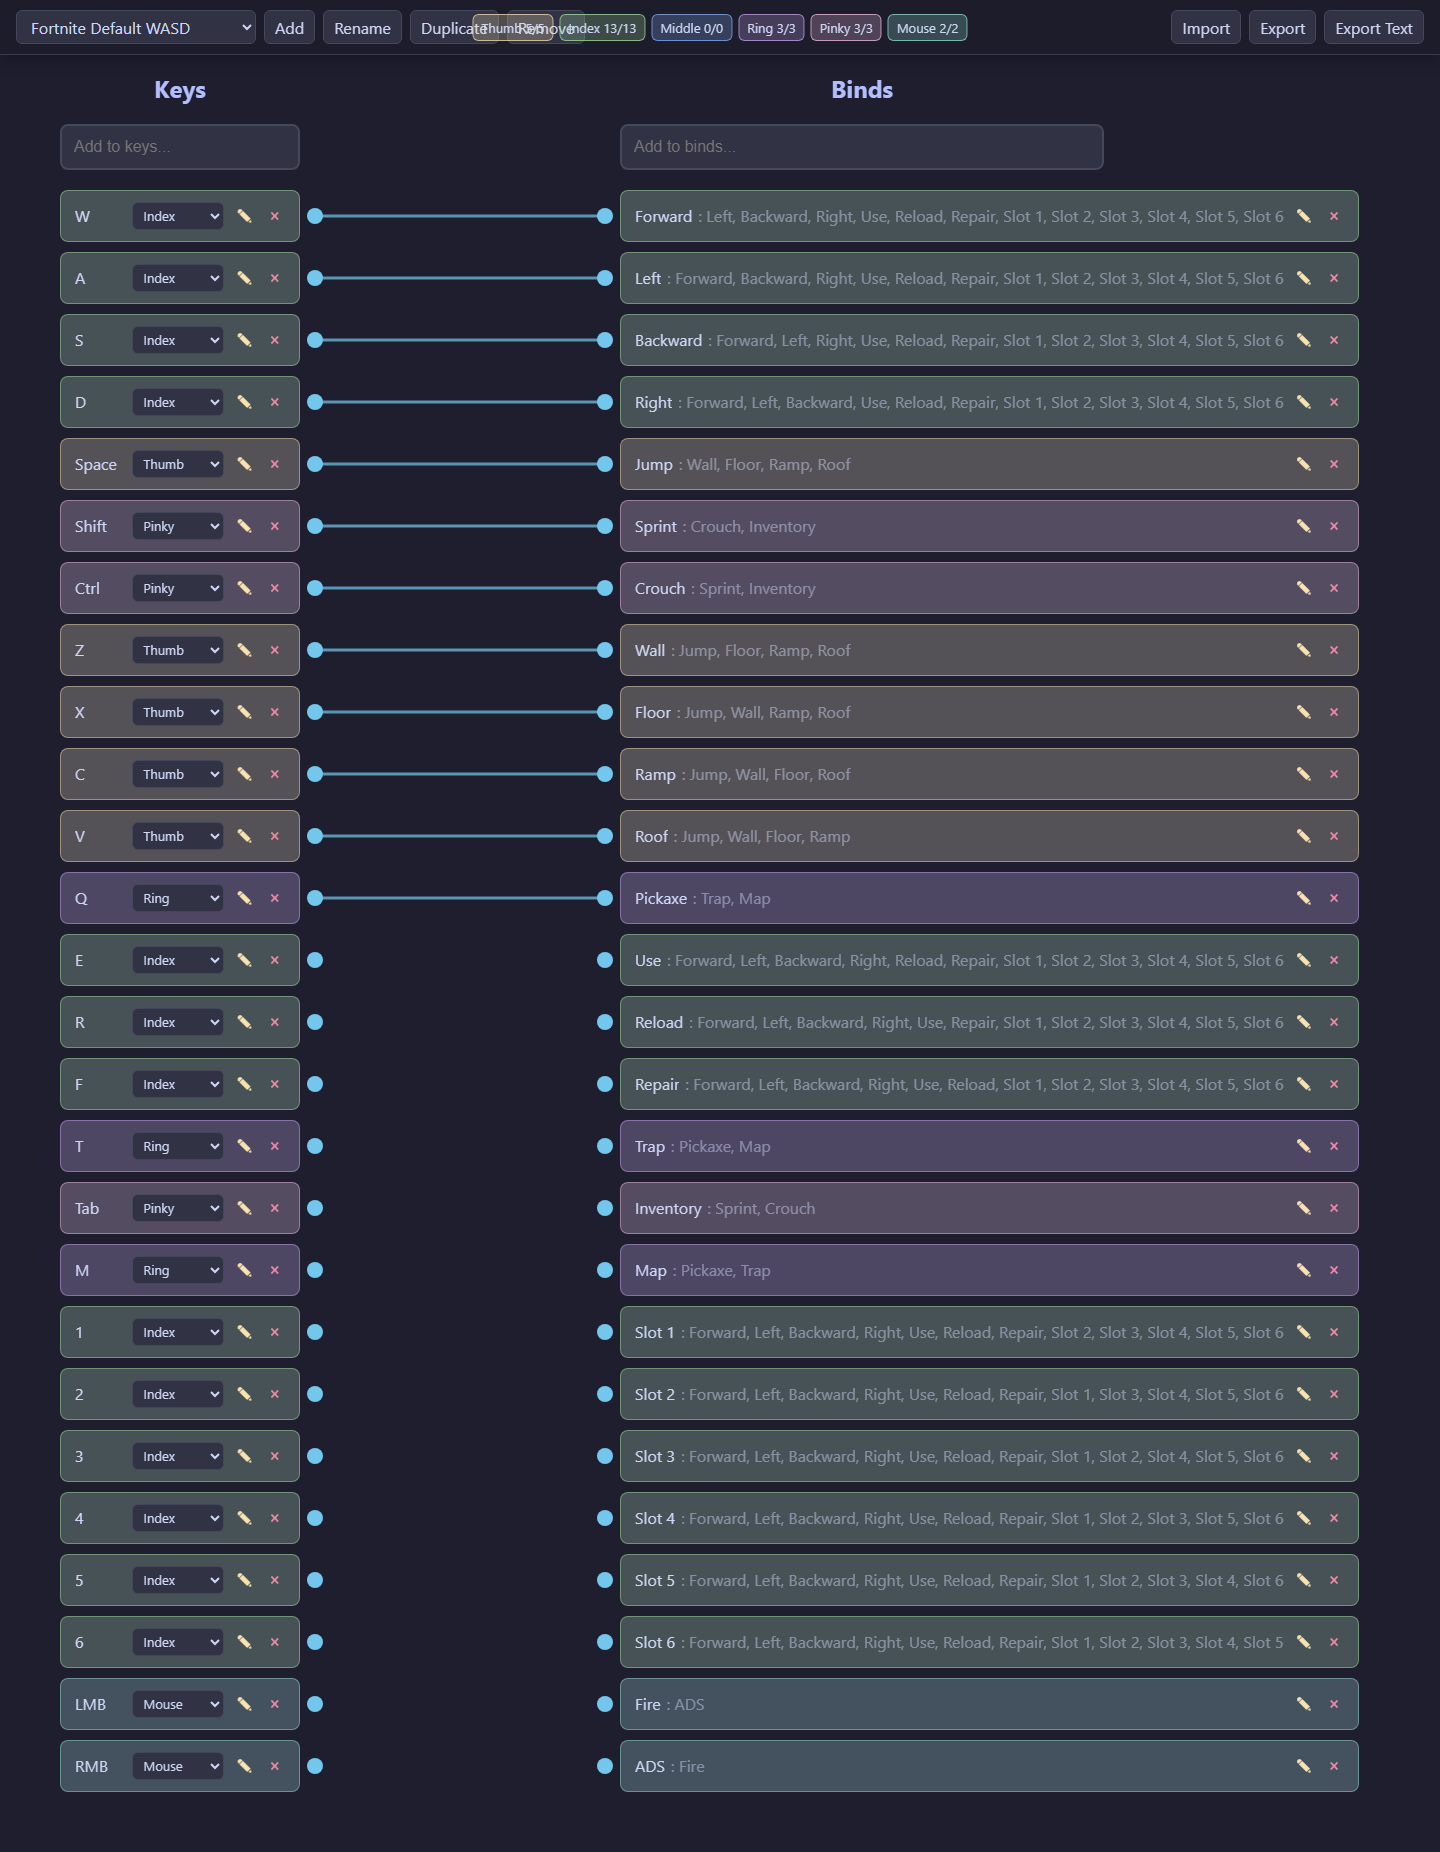
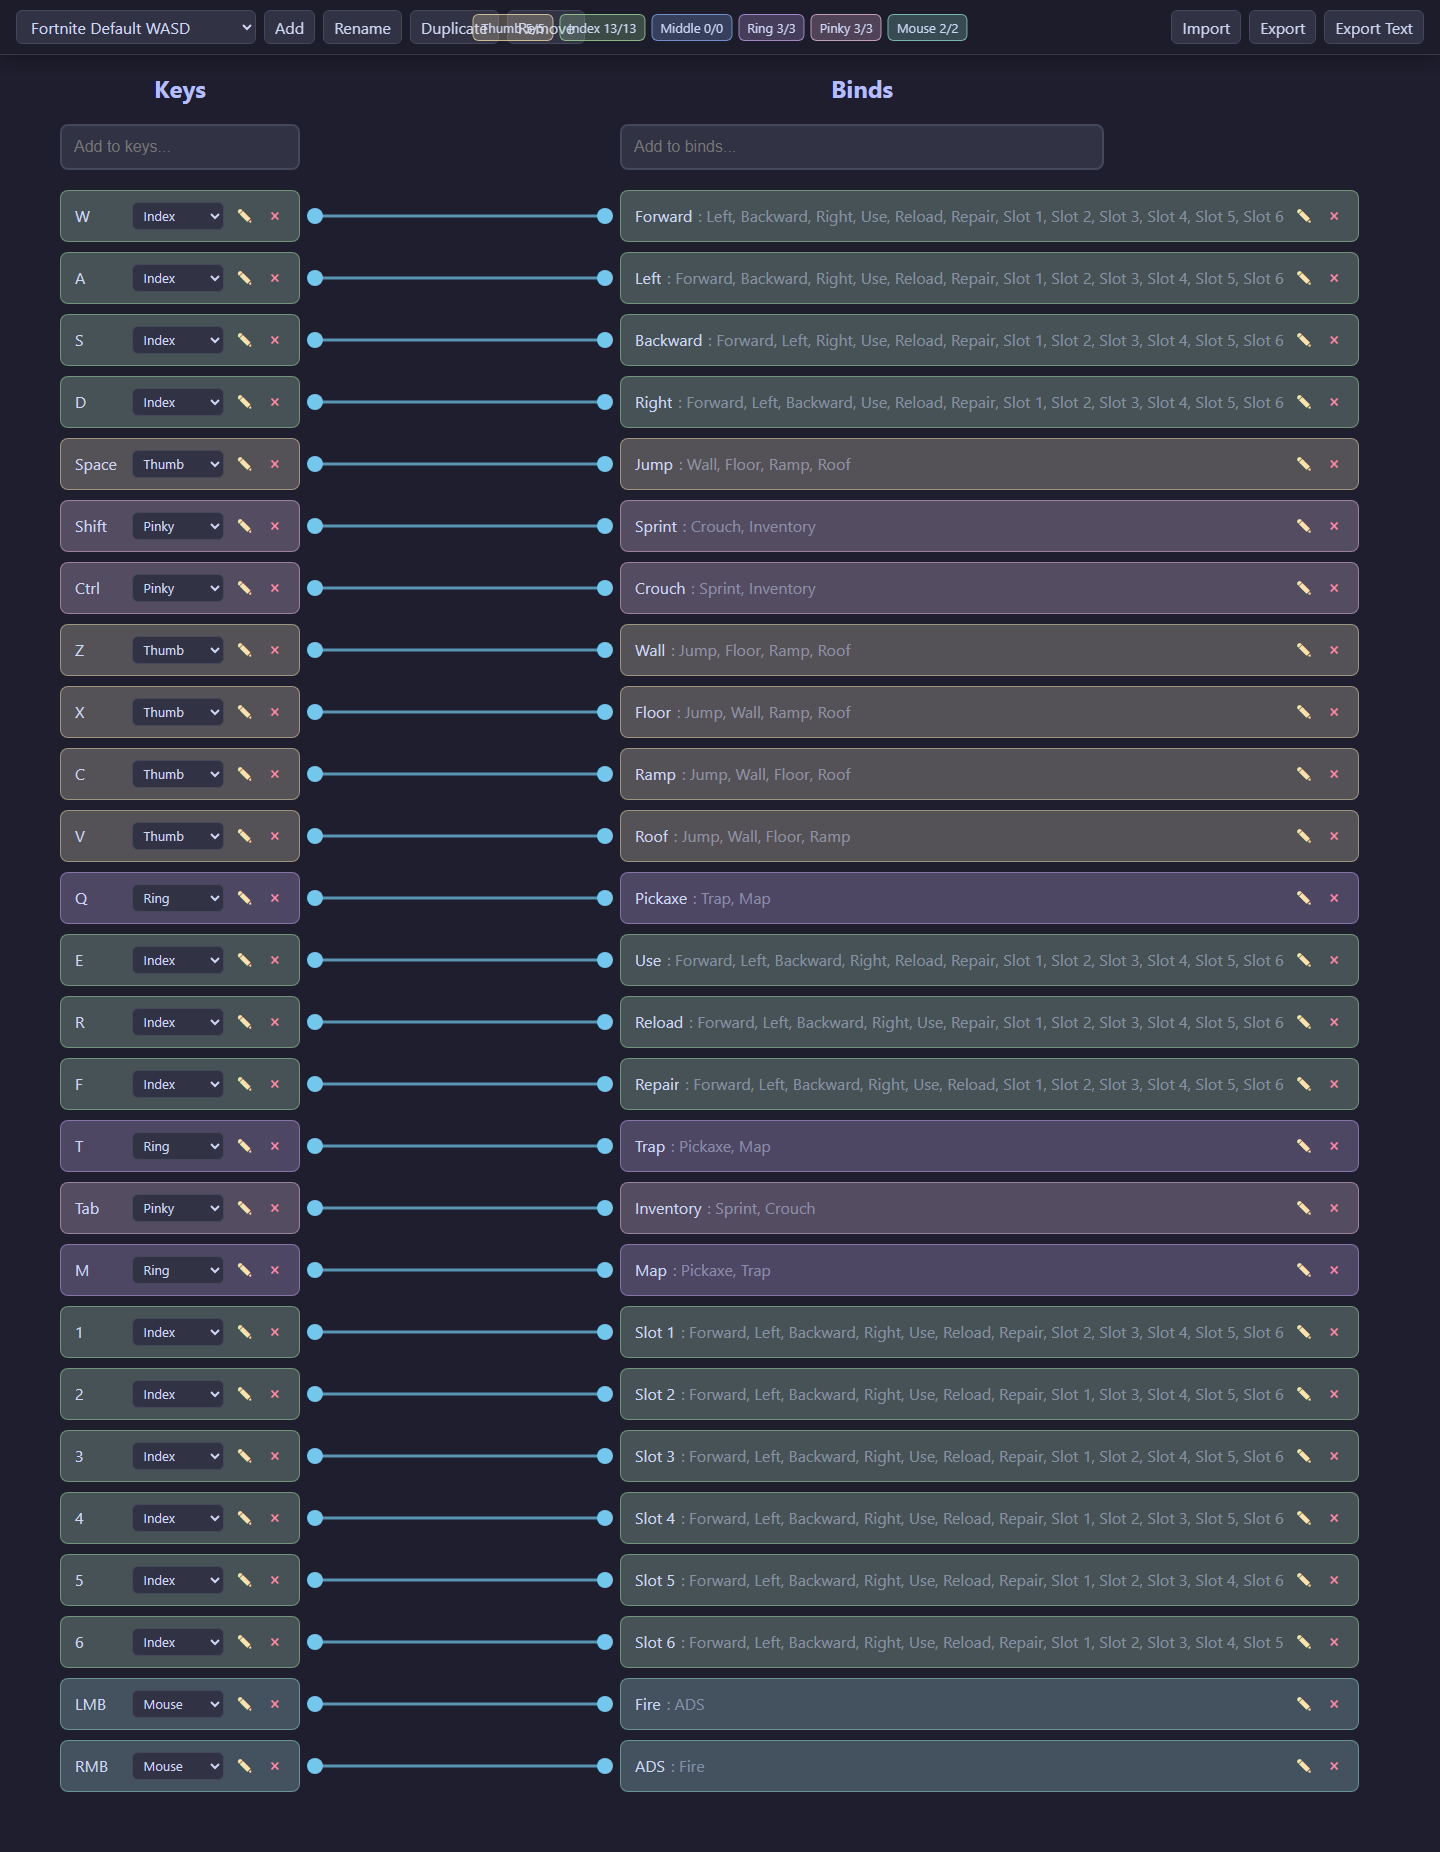
Fix connector lines clipped below viewport; SVG sized to app layout

diff --git a/script.js b/script.js
@@ -277,15 +277,49 @@ function renderRelatedActions() {
 function draw() {
     const svg = document.getElementById('connector-svg');
     svg.innerHTML = '';
+    sizeConnectorSvgToApp();
     connections.forEach(c => svg.appendChild(createLine(getPos(c.from), getPos(c.to), false, c)));
-    if (connDrag) svg.appendChild(createLine(getPos(connDrag.startId), { x: connDrag.x, y: connDrag.y }, true));
+    if (connDrag) {
+        svg.appendChild(createLine(getPos(connDrag.startId), clientPointToAppCoords(connDrag.x, connDrag.y), true));
+    }
+}
+
+function appLayoutRoot() {
+    return document.querySelector('.app-container');
+}
+
+function sizeConnectorSvgToApp() {
+    const root = appLayoutRoot();
+    const svg = document.getElementById('connector-svg');
+    if (!root || !svg) return;
+    const w = root.scrollWidth;
+    const h = root.scrollHeight;
+    svg.setAttribute('width', String(w));
+    svg.setAttribute('height', String(h));
 }
 
 function getPos(id) {
     const el = document.getElementById(id);
-    if (!el) return { x: 0, y: 0 };
-    const rect = el.querySelector('.anchor').getBoundingClientRect();
-    return { x: rect.left + rect.width / 2, y: rect.top + rect.height / 2 };
+    const root = appLayoutRoot();
+    if (!el || !root) return { x: 0, y: 0 };
+    const anchor = el.querySelector('.anchor');
+    if (!anchor) return { x: 0, y: 0 };
+    const ar = anchor.getBoundingClientRect();
+    const rr = root.getBoundingClientRect();
+    return {
+        x: ar.left + ar.width / 2 - rr.left + root.scrollLeft,
+        y: ar.top + ar.height / 2 - rr.top + root.scrollTop
+    };
+}
+
+function clientPointToAppCoords(clientX, clientY) {
+    const root = appLayoutRoot();
+    if (!root) return { x: clientX, y: clientY };
+    const rr = root.getBoundingClientRect();
+    return {
+        x: clientX - rr.left + root.scrollLeft,
+        y: clientY - rr.top + root.scrollTop
+    };
 }
 
 function createLine(p1, p2, temp = false, connection = null) {

diff --git a/style.css b/style.css
@@ -270,16 +270,21 @@ h2 { color: var(--lavender); text-align: center; margin-top: 0; }
 .anchor-right { left: -24px; }
 
 .connector-container {
-    position: fixed;
+    position: absolute;
     top: 0;
     left: 0;
-    width: 100vw;
-    height: 100vh;
+    width: 100%;
+    height: 100%;
+    min-height: 100%;
     pointer-events: none;
     z-index: 1;
+    overflow: visible;
 }
 
-#connector-svg { width: 100%; height: 100%; }
+#connector-svg {
+    display: block;
+    overflow: visible;
+}
 
 .connection-line {
     stroke: var(--sapphire);

diff --git a/index.html b/index.html
@@ -4,7 +4,7 @@
     <meta charset="UTF-8">
     <meta name="viewport" content="width=device-width, initial-scale=1.0">
     <title>Connected Lists</title>
-    <link rel="stylesheet" href="style.css?v=8">
+    <link rel="stylesheet" href="style.css?v=9">
 </head>
 <body>
     <div class="profile-bar">
@@ -39,6 +39,6 @@
             <ul class="item-list" id="list-right"></ul>
         </div>
     </div>
-    <script src="script.js?v=8"></script>
+    <script src="script.js?v=9"></script>
 </body>
 </html>
